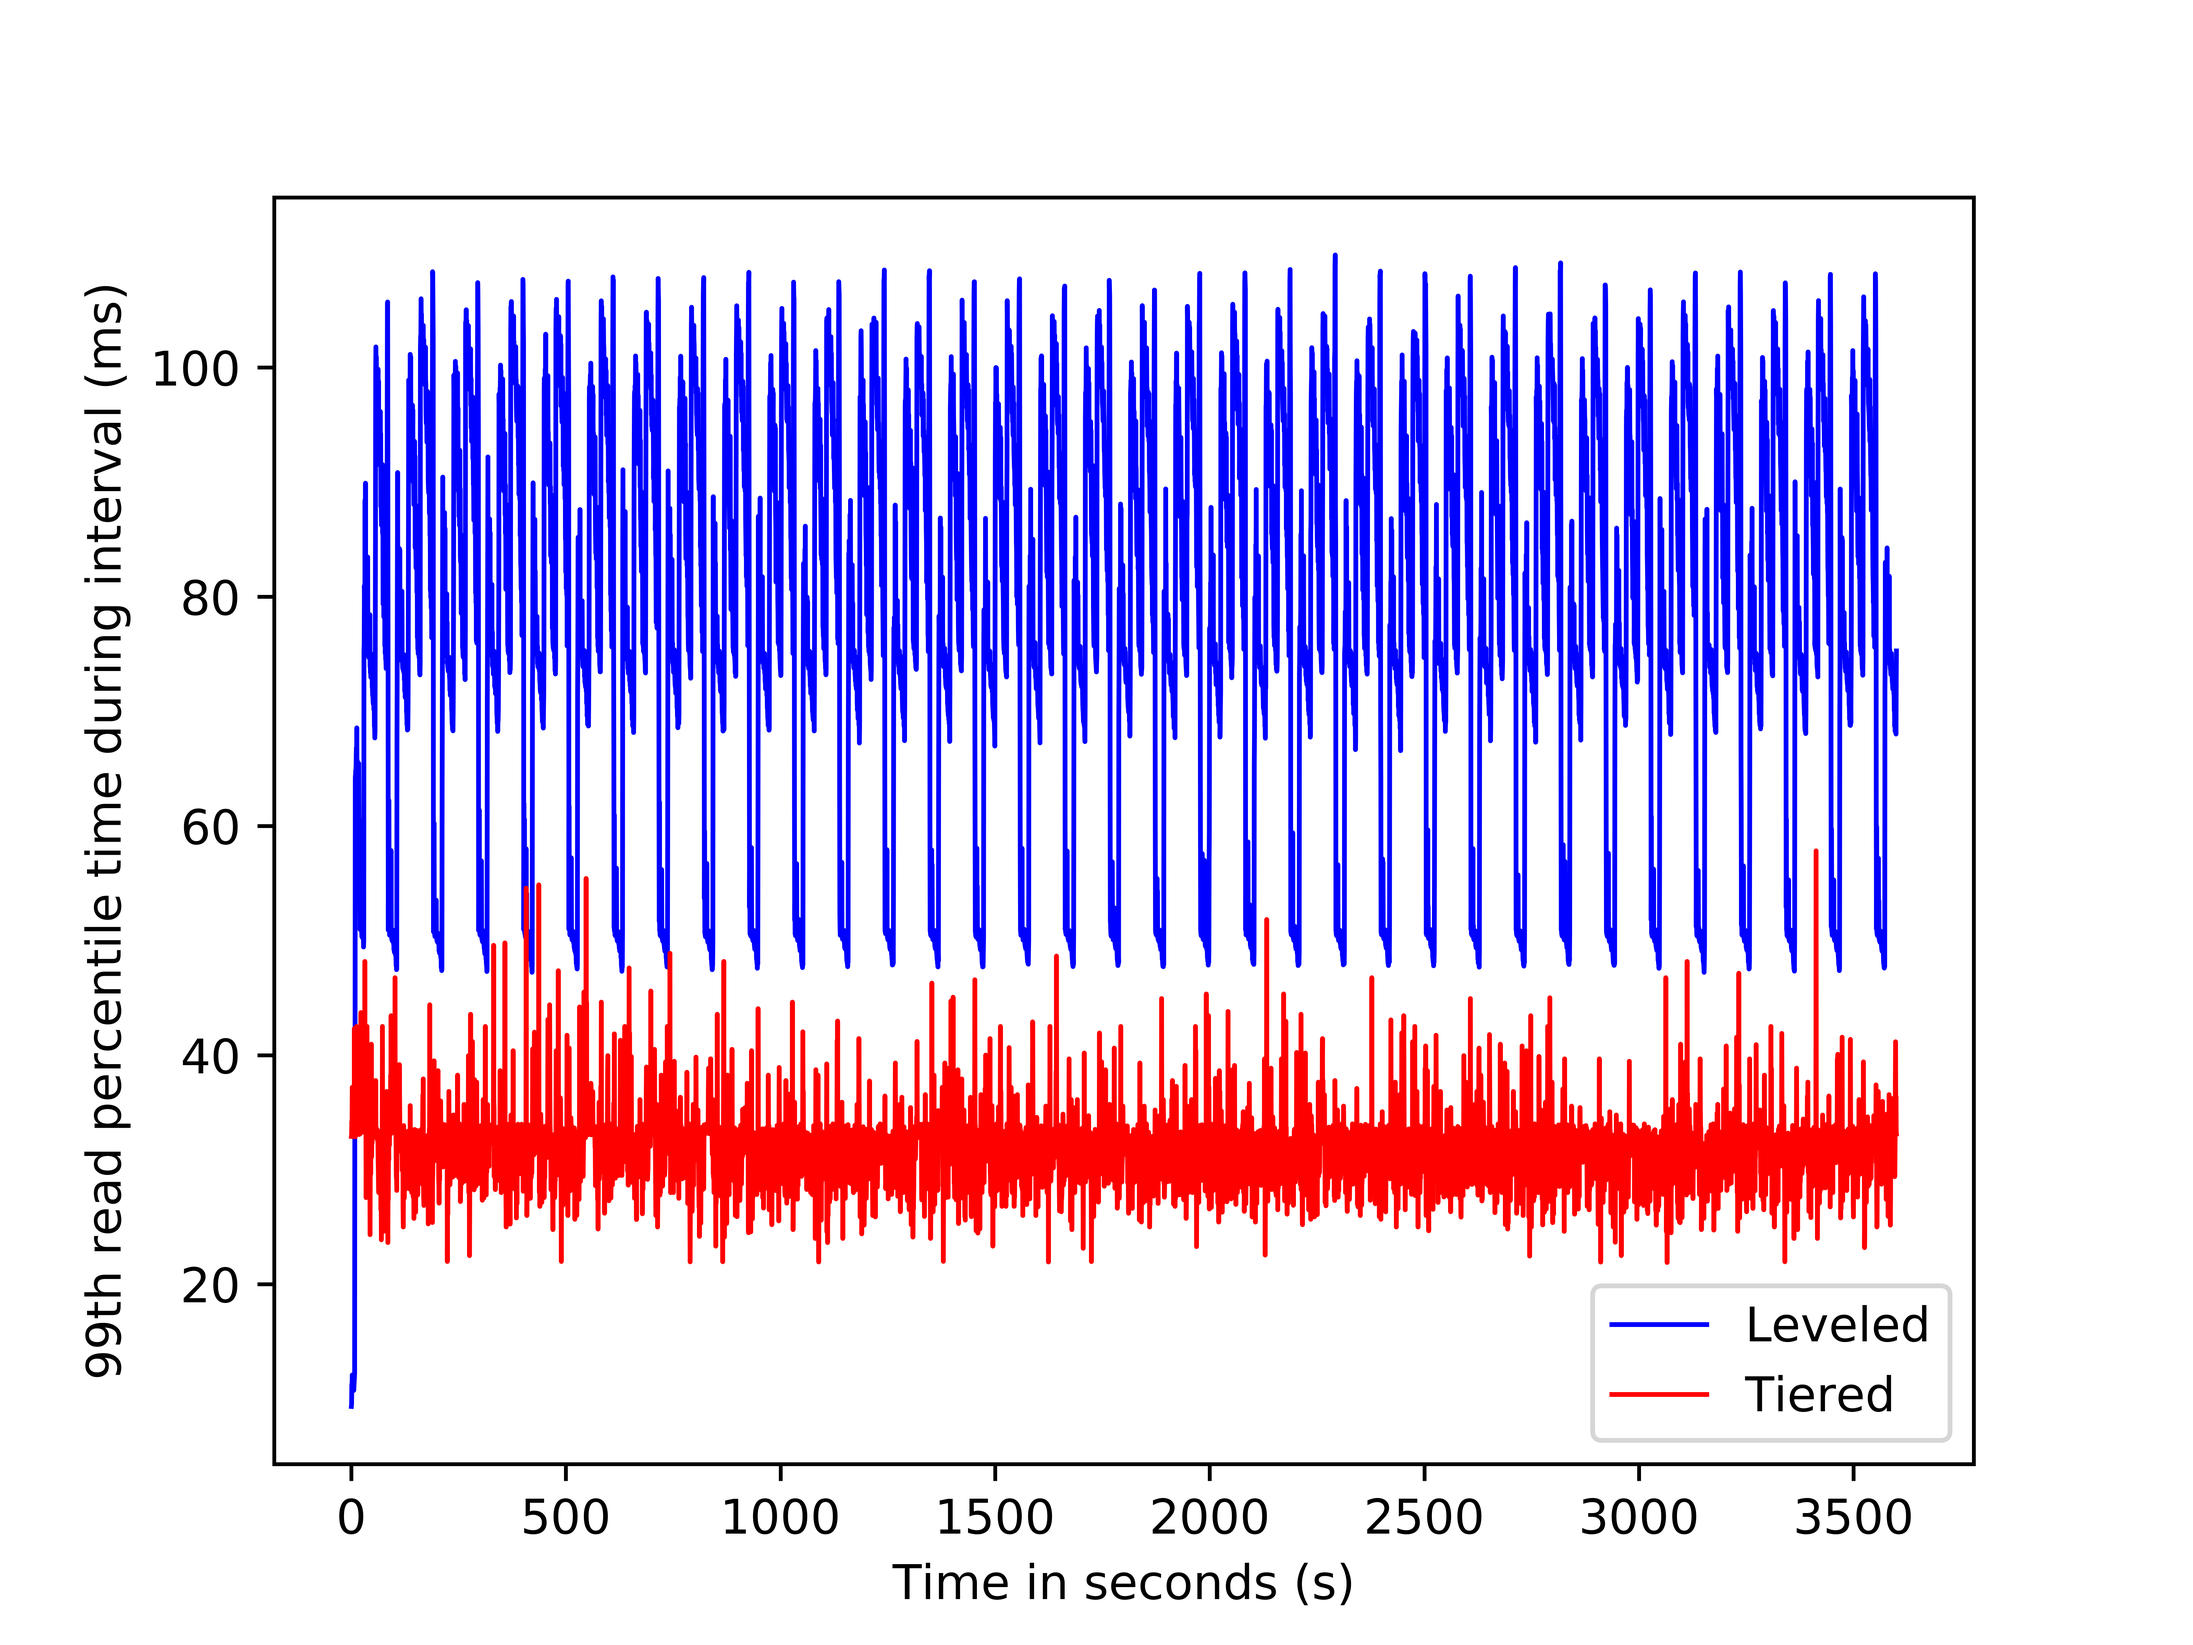
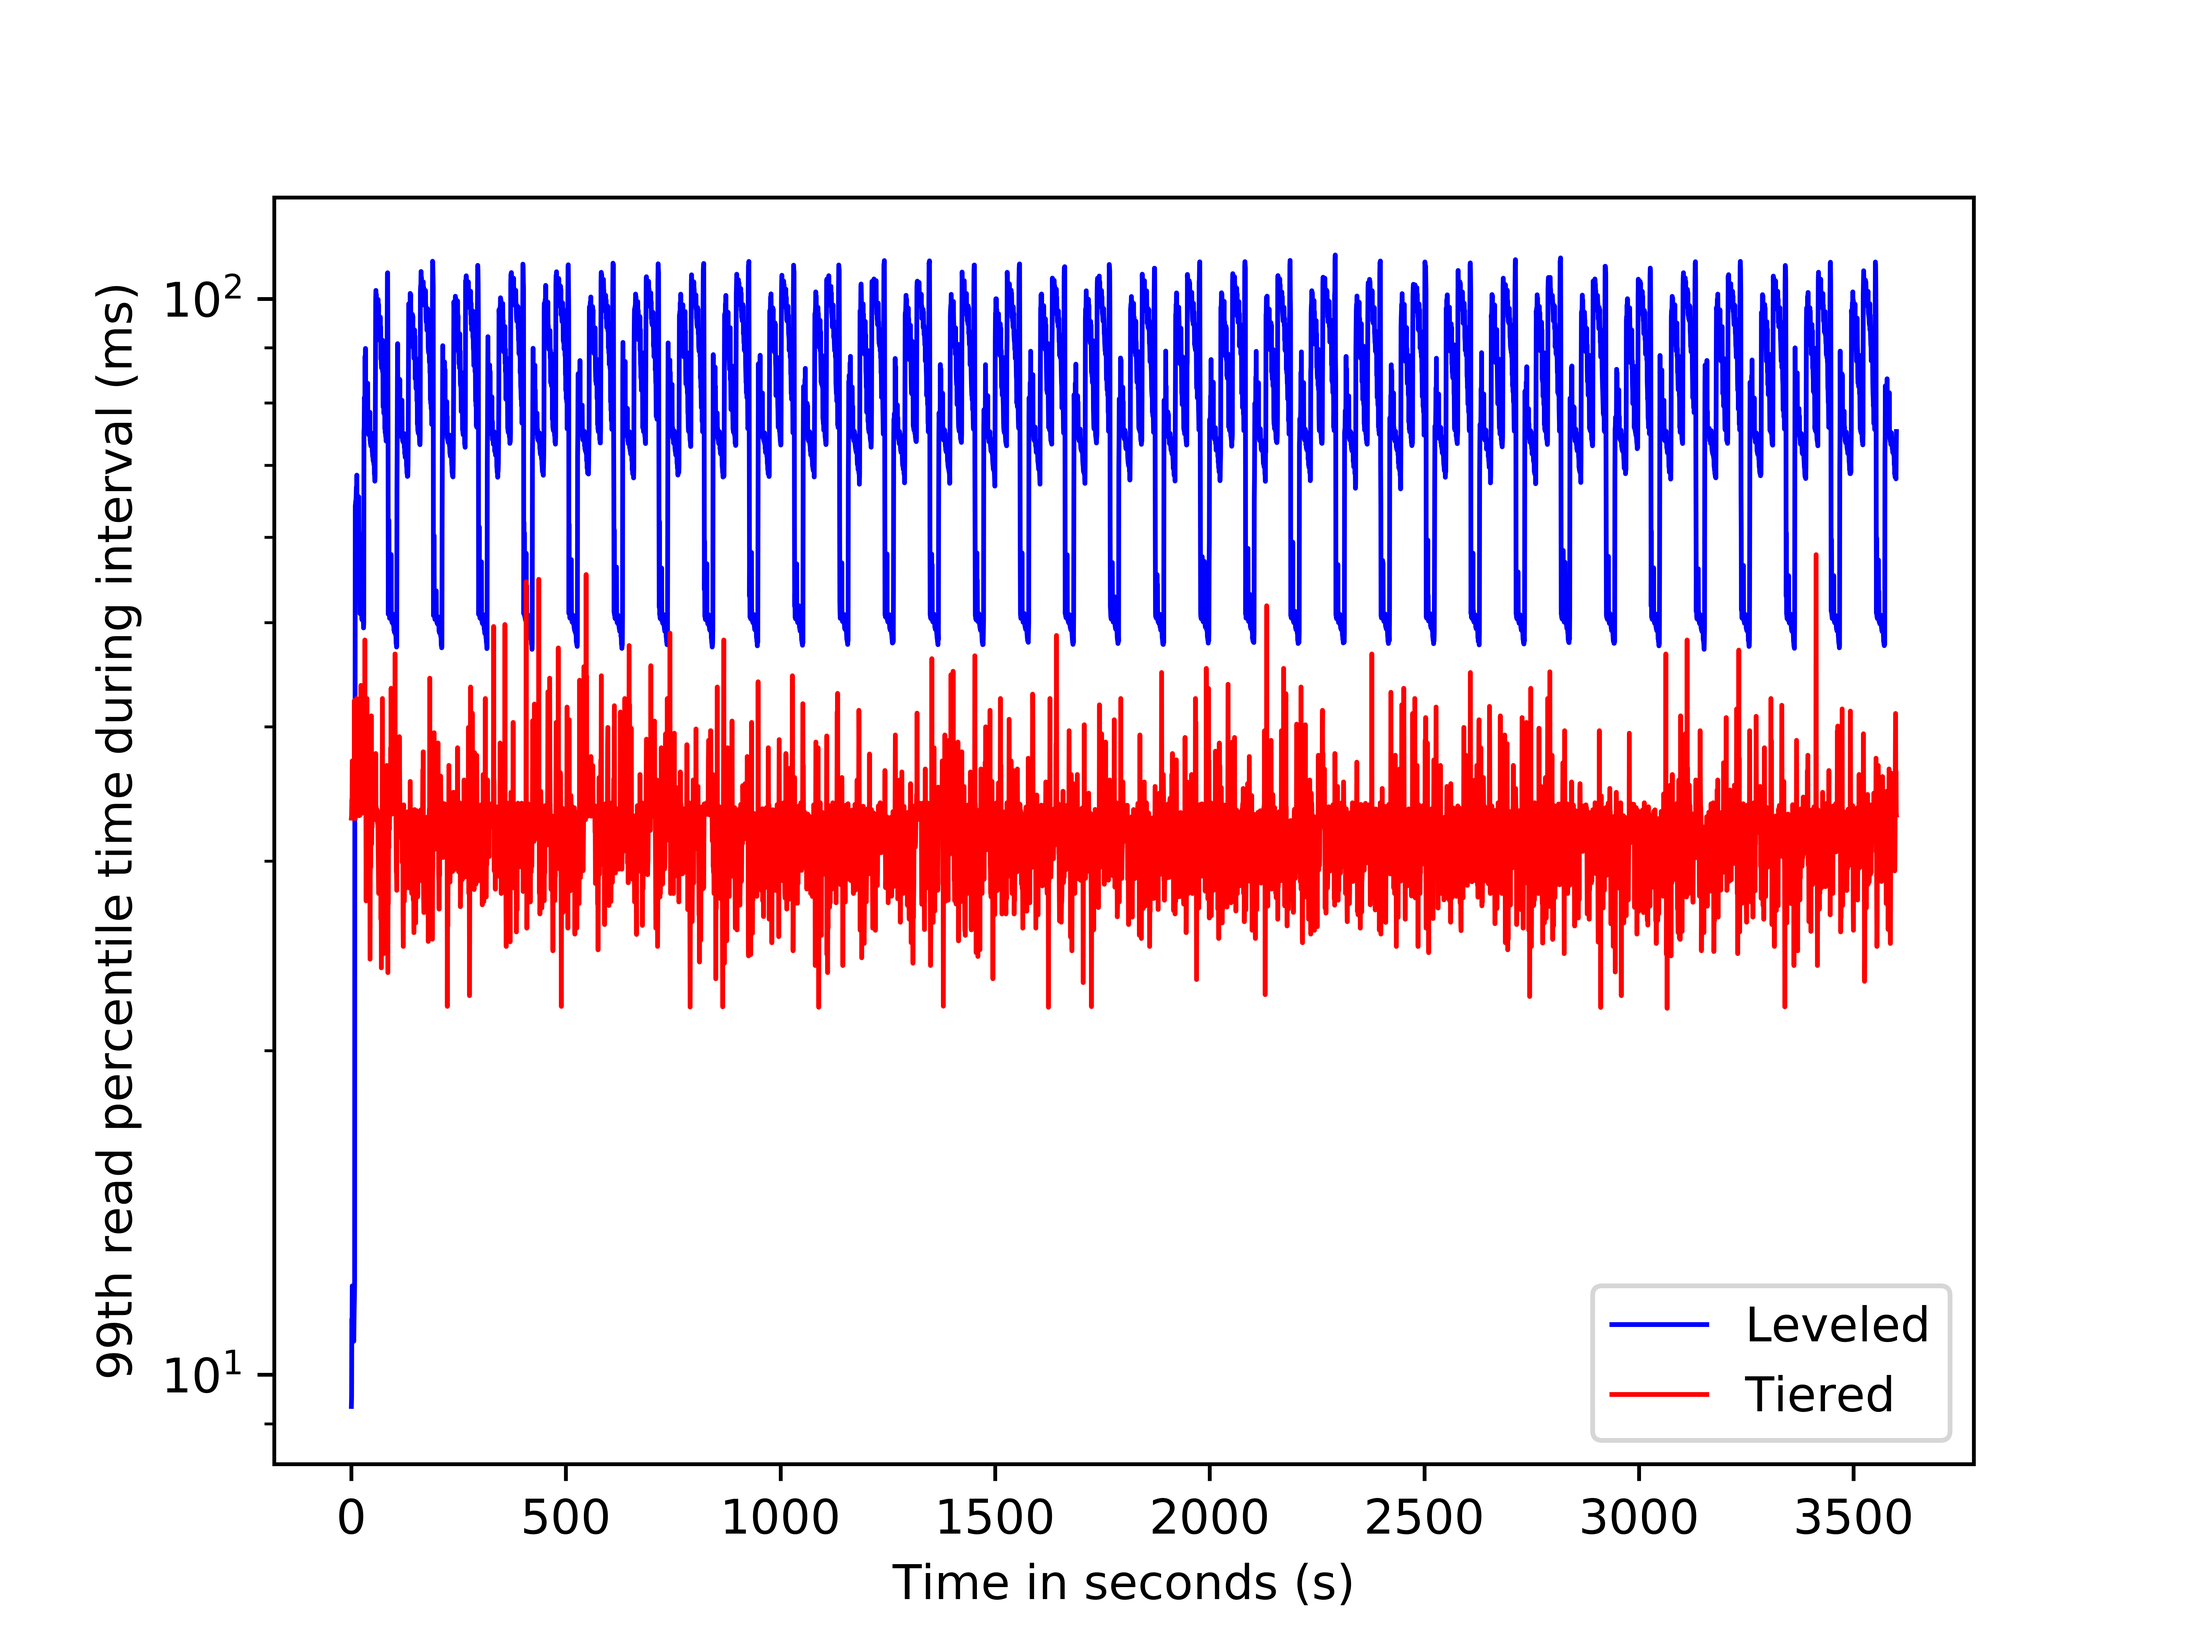
log scale of 99 plots

diff --git a/analysis/src/interval.py b/analysis/src/interval.py
@@ -67,6 +67,7 @@ def plotWrite99(filename1, filename2):
 
     plt.plot(x, y, color ='r', label = 'Tiered',  linewidth=1)
     plt.legend()
+    plt.yscale('log')
     plt.xlabel(xlabel)
     plt.ylabel(ylabel)
 
@@ -109,6 +110,7 @@ def plotRead99(filename1, filename2):
 
     plt.plot(x, y, color ='r', label = 'Tiered',  linewidth=1)
     plt.legend()
+    plt.yscale('log')
     plt.xlabel(xlabel)
     plt.ylabel(ylabel)
 
